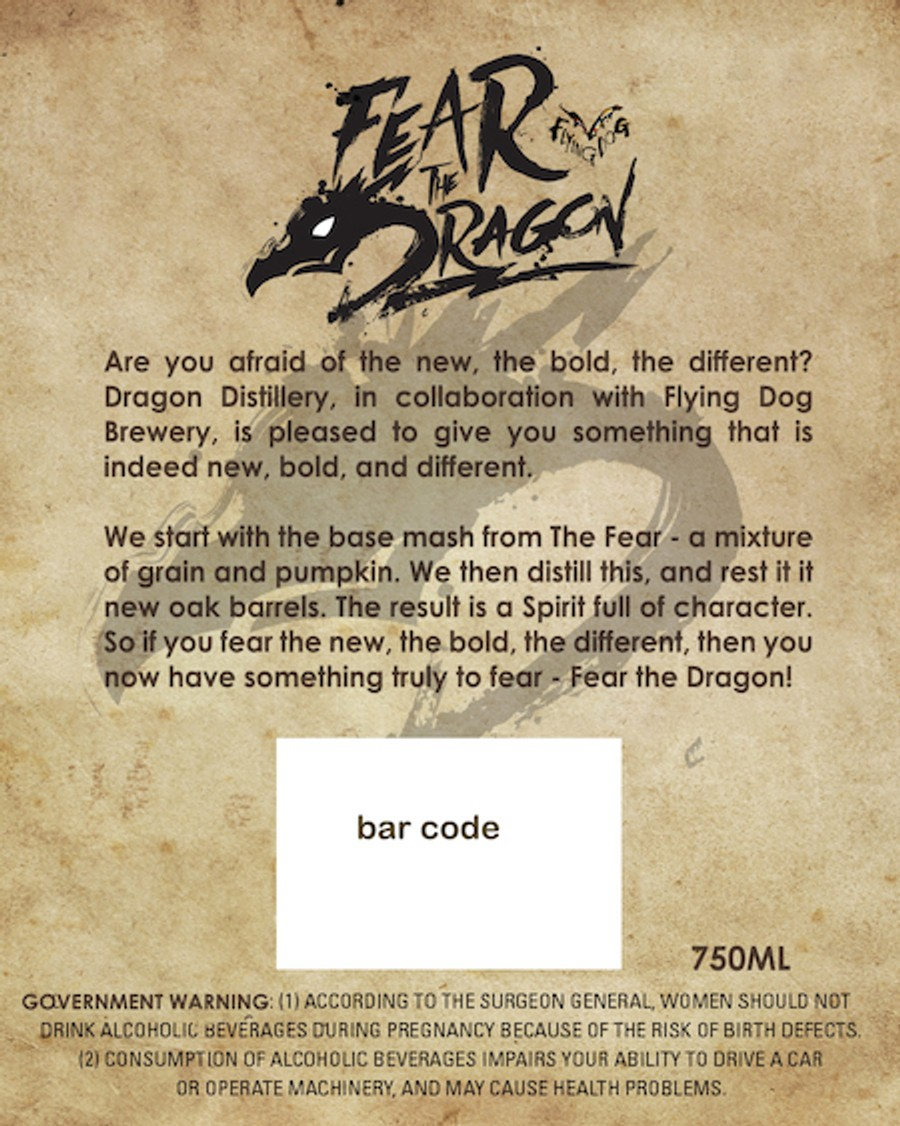
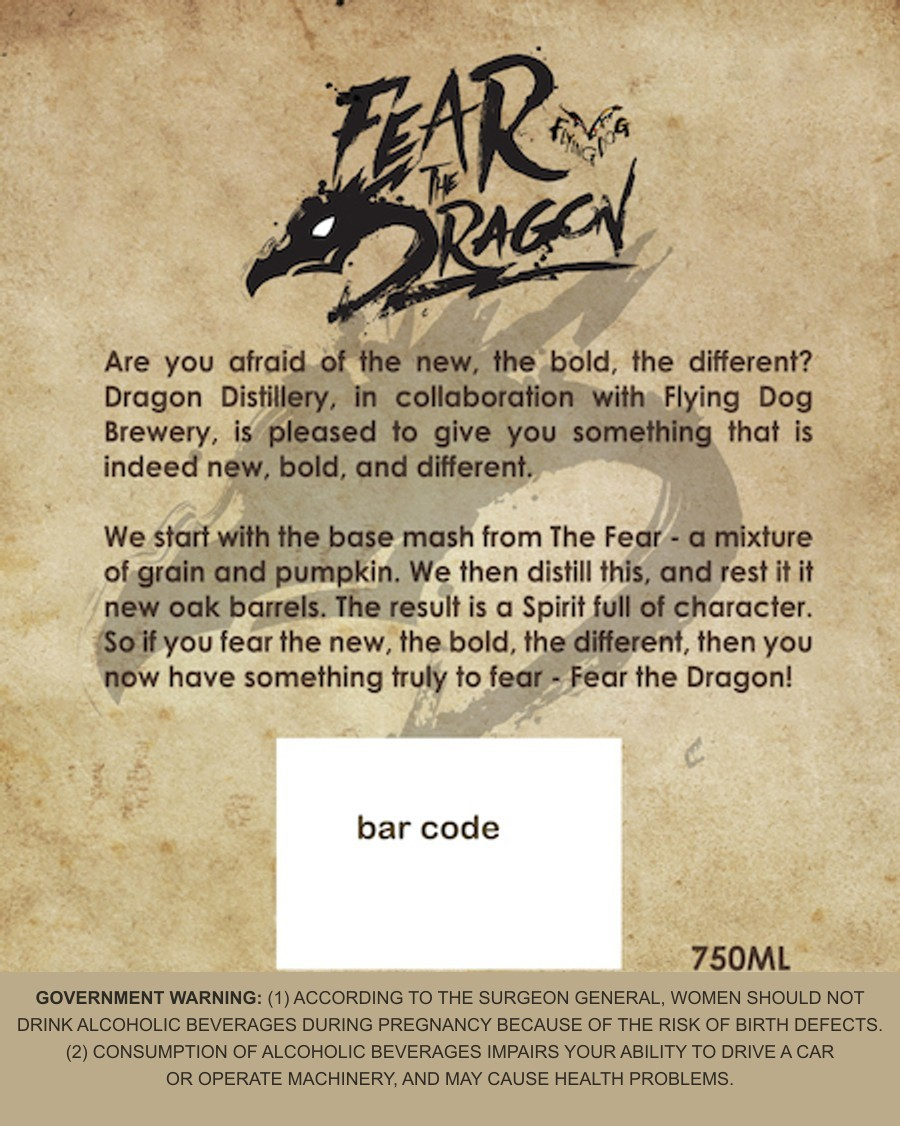
fix(demo): print-fidelity warning blocks + stylized-masthead brand guidance - measured live
The first live smoke of the new demo caught two real-world reads the mock
cannot see:

- The bold judge honestly returned UNVERIFIABLE on the clean back (and the
  focus escalation burned ~10s failing to rescue it): the 450px source's
  prefix/body weight differential is below what any reader can verify. Both
  back variants now re-render the warning block at print fidelity (real COLA
  artwork is far above web resolution), identical except the one statutory
  variable: bold prefix vs regular. The judge gets a fair target in both
  directions and the escalation stops firing on the clean path.
- The model allocated the stylized FEAR THE DRAGON calligraphy to artwork and
  promoted the producer logo to brand. The brand field's extraction guidance
  now names the general craft-label reality: a masthead rendered as large
  stylized lettering is still text and still the brand; a small producer crest
  is not the masthead when a larger sold-under name is present. (Prompt-only:
  the mock and eval are untouched.)

Changed region(s): [[0.0, 0.8393, 1.0, 1.0]]

diff --git a/src/extraction/fieldCatalog.ts b/src/extraction/fieldCatalog.ts
@@ -67,7 +67,11 @@ export const FIELD_CATALOG: readonly FieldDescriptor[] = [
     key: "brand", rawKey: "brand", confKey: "brand", label: "Brand name", csvColumn: "brand", group: "headline",
     description:
       "The BRAND NAME — in TTB's terms, the name under which the product (or line of products) is SOLD, shown " +
-      "in the primary masthead / wordmark, e.g. \"Stone's Throw\", \"Jolly Jerry's\". Per TTB, if the product is " +
+      "in the primary masthead / wordmark, e.g. \"Stone's Throw\", \"Jolly Jerry's\". Craft labels often render " +
+      "the masthead as large STYLIZED artwork, calligraphy, or hand lettering rather than plain type — the " +
+      "biggest decorated words on the label are still TEXT: transcribe them as the brand. A small producer " +
+      "logo, crest, or seal naming the company is NOT the masthead when a larger sold-under name is present. " +
+      "Per TTB, if the product is " +
       "NOT sold under a separate brand name, the bottler / distiller / importer COMPANY NAME is treated as the " +
       "brand: so when the only prominent name is e.g. \"OLD TOM DISTILLERY\", populate BOTH `brand` and `name` " +
       "with it. Do NOT fold any of these into the brand: (a) the class/type designation (e.g. \"Rum\", " +

diff --git a/eval/fixtures/images/MANIFEST.md b/eval/fixtures/images/MANIFEST.md
@@ -52,7 +52,7 @@ hermetic-keying explanation.
 | 15 | `old-tom-no-net-contents.svg` | `eval/fixtures/images/old-tom-no-net-contents.svg` | `missing-net-contents-review` | Portrait label, ~600x800 | Identical to #1 EXCEPT **net contents is omitted**. Brand/class/alcohol/warning all correct; the missing mandatory field is the sole defect. | **review** |
 | 16 | `sangria-import-no-country.svg` | `eval/fixtures/images/sangria-import-no-country.svg` | `sangria-import-no-country-review` | Portrait label, ~600x800; clean | Brand **Sailor Sally's** (Sailor Sally's Cellars, Valencia, Spain); class/type **Sangria**; **8.5% ALC/VOL (17 PROOF)**; net **750 mL**; importer line **"IMPORTED BY: SEA TRADER IMPORTS, MIAMI, FL."**; full canonical warning, ALL-CAPS **bold** prefix. NO "Product of Spain" statement anywhere — the import is inferred (importer line + foreign producer address) and the missing country-of-origin statement is the sole defect. | **review** |
 | 17 | `fear-the-dragon-front.jpg` | `eval/fixtures/images/fear-the-dragon-front.jpg` | `fear-the-dragon-front-panel-alone` | **REAL artwork** (1200x1200, Dragon Distillery x Flying Dog), README walkthrough + `public/samples/` | Front panel of the demo PAIR: brand **Fear the Dragon**; "Spirit Distilled from Grain and Pumpkin"; statement of composition; **50% ALC./VOL. (100 PROOF)**; responsibility line "Distilled & Bottled by Dragon Distillery, LLC Frederick, MD". No net contents, no warning (both live on the back), so ALONE it must never approve; the walkthrough uploads front+back together for the joint-read approve. | **review** |
-| 18 | `fear-the-dragon-back.jpg` | `eval/fixtures/images/fear-the-dragon-back.jpg` | `fear-the-dragon-back-panel-alone` | **REAL artwork** (900x1126), README walkthrough + `public/samples/` | Back panel of the demo pair: marketing text, **750ML**, and the full statutory warning printed ENTIRELY in caps with a **bold** `GOVERNMENT WARNING:` prefix (the body's case folds; only the prefix carries the caps+bold rule). Alone it lacks class/alcohol/responsibility, so completeness routes it to review. | **review** |
+| 18 | `fear-the-dragon-back.jpg` | `eval/fixtures/images/fear-the-dragon-back.jpg` | `fear-the-dragon-back-panel-alone` | **REAL artwork** (900x1126), README walkthrough + `public/samples/` | Back panel of the demo pair: marketing text, **750ML**, and the full statutory warning printed ENTIRELY in caps with a **bold** `GOVERNMENT WARNING:` prefix (the body's case folds; only the prefix carries the caps+bold rule). The warning block is RE-RENDERED at print fidelity by the make-script (the 450px source's bold differential was honestly unverifiable, even by the live judge + focus escalation); the two back variants differ ONLY in the prefix weight. Alone it lacks class/alcohol/responsibility, so completeness routes it to review. | **review** |
 | 19 | `fear-the-dragon-warning-not-bold-back.jpg` | `eval/fixtures/images/fear-the-dragon-warning-not-bold-back.jpg` | `fear-the-dragon-warning-not-bold-reject` | **EDITED TEST ARTIFACT** (built by `scripts/make-fear-the-dragon-demo.cjs`; the real label is compliant) | Identical to #18 EXCEPT the warning block is re-rendered with the `GOVERNMENT WARNING:` prefix in **regular weight** (still all caps, wording verbatim). The sole defect 27 CFR 16.22(a)(2) hard-fails on; the only fixture isolating the bold rule. | **reject** |
 | 17 | `jolly-jerrys-region-origin.svg` | `eval/fixtures/images/jolly-jerrys-region-origin.svg` | `region-origin-not-country-review` | Portrait label, ~600x800; clean | Brand **JOLLY JERRY'S** (Jolly Jerry's Distillery, Bridgetown, Barbados); class/type **Rum**; **40% ALC/VOL (80 PROOF)**; net **750 mL**; origin line **"IMPORTED FROM THE CARIBBEAN"**; full canonical warning, ALL-CAPS **bold** prefix. The origin statement names a REGION, not a country — it matches the application verbatim, and the defect is the statement itself (CBP marking requires the country, e.g. "Product of Barbados"). | **review** |
 
